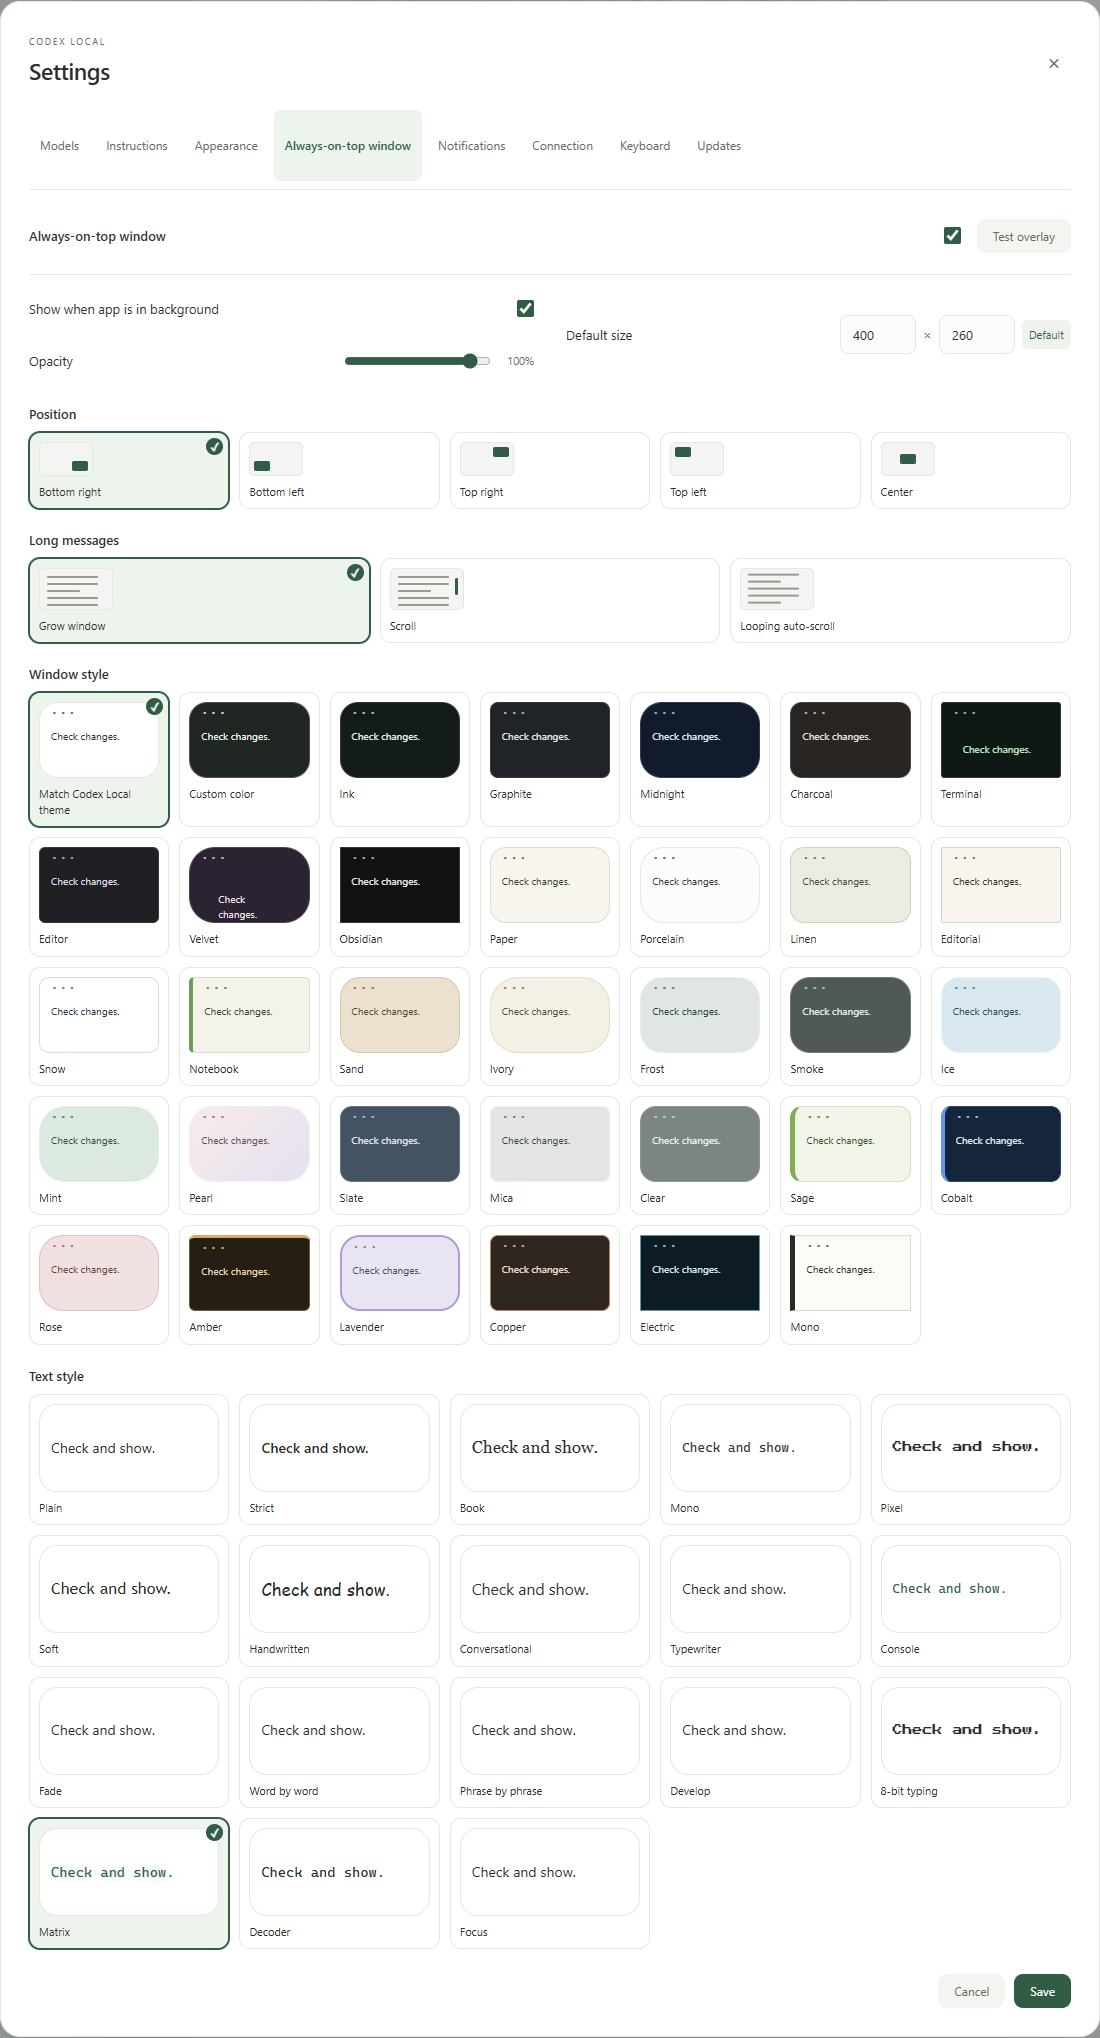
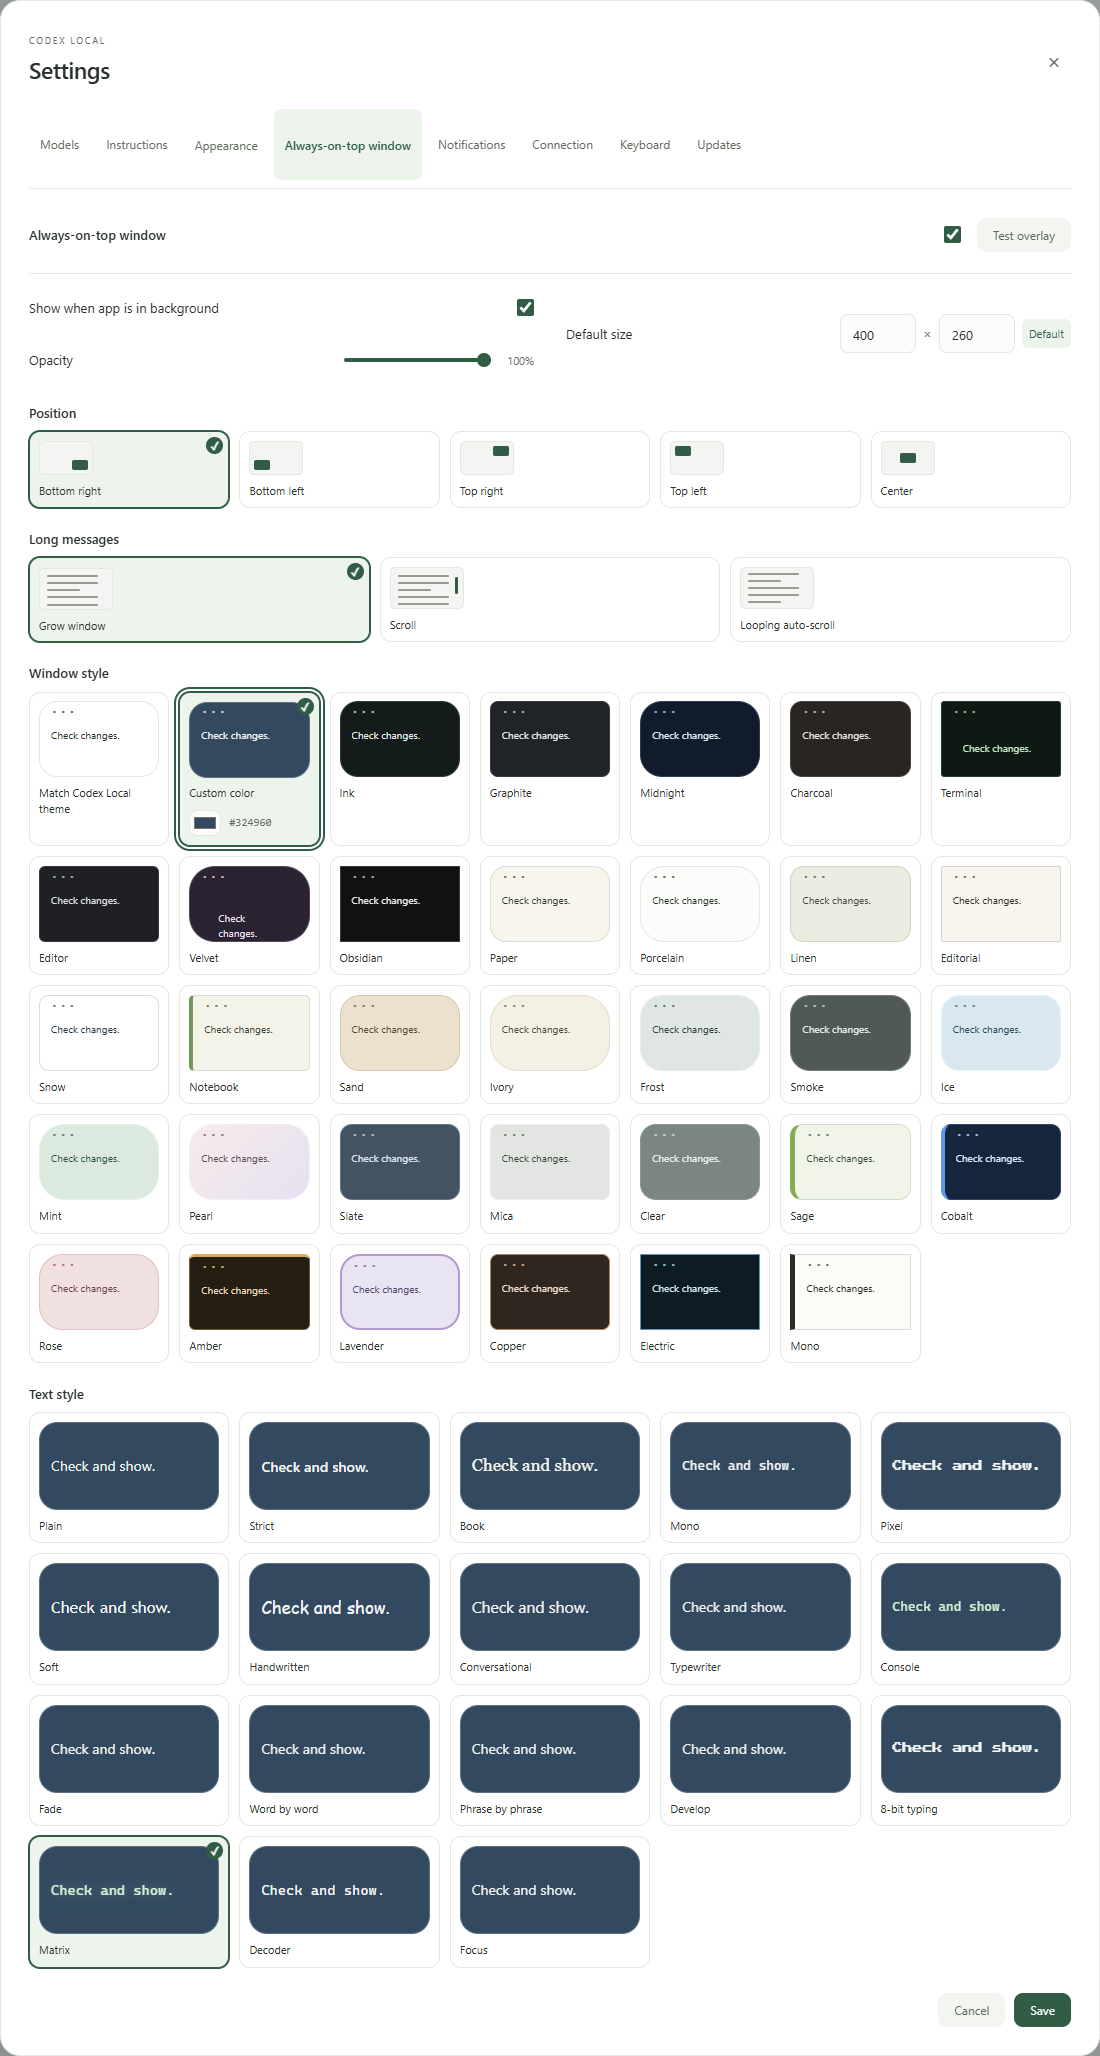
Update overlay controls and custom color documentation for 0.8.35 [skip ci]

diff --git a/README.md b/README.md
@@ -14,7 +14,7 @@ This repository contains **installers and documentation**. Application source co
 
 ![Codex Local desktop workspace with projects, a launch checklist and usage limits](assets/screenshots/en/workspace-light.png)
 
-<p align="center"><sub>Codex Local 0.8.34 · Actual interface with demo projects and conversations.</sub></p>
+<p align="center"><sub>Codex Local 0.8.35 · Actual interface with demo projects and conversations.</sub></p>
 
 ## Features
 
@@ -43,7 +43,7 @@ Open the window from the chat header. On Windows it stays above other apps and c
 
 The window shows the full latest progress message and a short status with a spinner: Thinking, Working on the task or Optimizing conversation. Commands and their output are hidden. When a task finishes, it displays **Work finished**; the **Open chat** icon beside Close is always available.
 
-In **Settings → Always-on-top window**, choose text and window styles from visual cards. **Test overlay** opens a real window using your draft size and appearance; **Default** restores the width and height to 400 × 260. Long text can scroll manually, scroll automatically from top to bottom in a loop, or grow the window within the screen. Hover pauses automatic scrolling for manual reading; moving away resumes it. Set the theme color or a custom color, position, opacity and automatic opening there too. Disabling the feature hides the chat button and detailed settings. Supported browsers offer manual opening with Picture-in-Picture.
+In **Settings → Always-on-top window**, choose text and window styles from visual cards. **Test overlay** opens a real window using your draft size and appearance; **Default** restores the width and height to 400 × 260. Long text can scroll manually, scroll automatically from top to bottom in a loop, or grow the window within the screen. Hover pauses automatic scrolling for manual reading; moving away resumes it. The color picker appears directly inside the Custom color card. Set the theme color, position, opacity and automatic opening there too. Disabling the feature hides the chat button and detailed settings. Supported browsers offer manual opening with Picture-in-Picture.
 
 | Progress window | Compact settings |
 | --- | --- |
